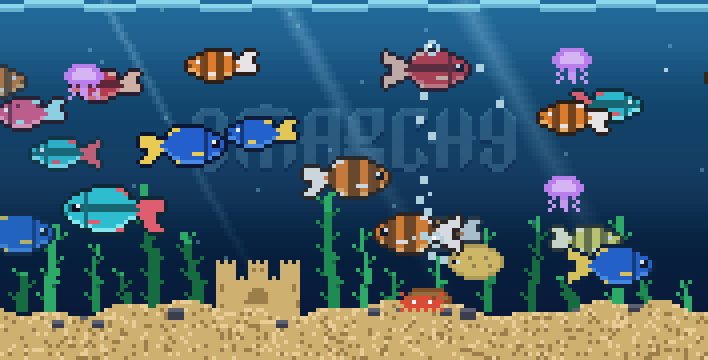
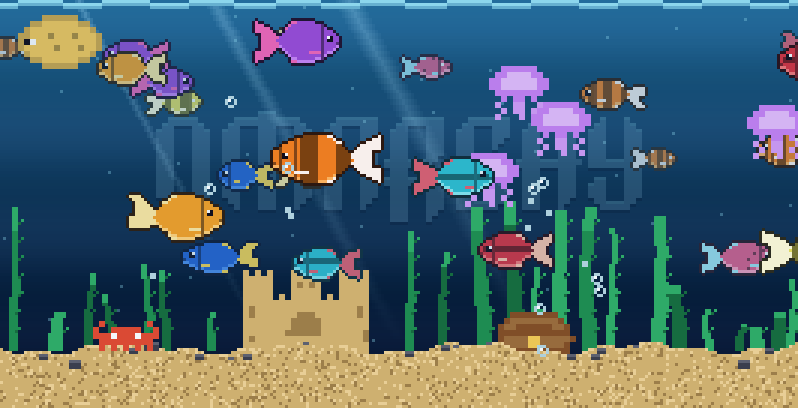
Give the screensaver a finer grid, and vary the fish by depth
Two things made the screensaver look unlike the tank in a terminal.

The grid: Omarchy opens the screensaver terminal at font size 18, which on
a scaled laptop panel is about 96x60 pixels -- a quarter of an everyday
terminal -- so the tank came out coarse, with six large fish. The install
now shadows omarchy-launch-screensaver and opens it at size 12, which is
~160x90 there and ~266x136 on a 1440p monitor. The shadow carries no copy
of the launcher: it points OMARCHY_PATH at a mirror of Omarchy's tree,
symlinked entry by entry except the terminal's screensaver config, and
hands off to the real launcher, which reads OMARCHY_PATH for nothing else.
--font-size in ~/.config/fishtank.conf sets it; 18 restores the original.

The fish: size came from a narrow band around one value, so a tank held
nine near-identical fish. Size now comes from depth -- far ones small and
dim, near ones large -- with jitter in the aspect so two fish of a height
are not the same fish. The hand-drawn sprites double on a tall tank, so
the castle, crab and chest stay in scale with them.

diff --git a/README.md b/README.md
@@ -20,19 +20,39 @@ number -- a fractional resize smears those strokes into grey mush. A tall tank
 gets it at full size; a short one halves it so the lockup still fits above the
 sand.
 
-Sprites are sized from the tank, not in fixed pixels. The screensaver runs
-foot at font size 18, which on a scaled laptop panel is about a hundred
-columns -- half the grid of an everyday terminal -- so a fish measured in
-pixels swells to a third of the screen there. Everything scales instead: fish
-are a fraction of the canvas height, and the logo shrinks to fit a narrow
-tank. The composition comes out the same whether it is a 106x60 canvas or a
-240x120 one.
+Everything is sized from the tank rather than in fixed pixels: fish are a
+fraction of the canvas height, with the ones far back small and dim and the
+ones near the glass large, and the logo shrinks to fit a narrow tank. The
+hand-drawn sprites -- castle, crab, chest -- double once the tank is tall
+enough for it, so a castle stays the size of a castle next to the fish.
 
 Swimming in the tank: generated fish species (each with a forked tail
 that flaps, a dorsal fin, a gill line and a proper eye), a pufferfish, drifting
 jellyfish, a crab that patrols the sand, bubbles from fish mouths and sand
 vents, swaying seaweed, a sandcastle, a treasure chest, god rays from the
 surface, drifting plankton and a rippling waterline.
+
+## Terminal size
+
+Omarchy opens the screensaver terminal at font size 18. That suits text
+effects, but it leaves the tank about 96x60 pixels on a scaled laptop panel --
+a quarter of what an everyday terminal gives -- and the fish come out coarse
+and few. So the install also shadows `omarchy-launch-screensaver`, which opens
+it at size 12 instead: roughly 160x90 pixels on that same panel and 266x136 on
+a 1440p monitor.
+
+```bash
+printf -- '--font-size 10\n' > ~/.config/fishtank.conf   # finer still
+printf -- '--font-size 18\n' > ~/.config/fishtank.conf   # Omarchy's original grid
+```
+
+The shadow does not copy Omarchy's launcher -- its multi-monitor handling
+belongs upstream and should keep working through updates. It points
+`OMARCHY_PATH` at a mirror of Omarchy's tree, every entry symlinked back to
+the original except the terminal's screensaver config, which is ours, and then
+hands off to the real launcher. That is the only thing the launcher reads
+`OMARCHY_PATH` for. Ghostty and Kitty take their font size as a command-line
+flag the launcher sets itself, so those two keep size 18.
 
 ## Keys
 
@@ -92,8 +112,11 @@ want the screensaver to run with goes in `~/.config/fishtank.conf`, one flag
 per line:
 
 ```bash
-printf -- '--logo lockup\n' > ~/.config/fishtank.conf
+printf -- '--logo lockup\n--font-size 10\n' > ~/.config/fishtank.conf
 ```
+
+`--font-size` is read by the launcher rather than passed to the tank; every
+other line goes to `fishtank` as an argument.
 
 ## Install
 
@@ -103,7 +126,8 @@ cd omarchy-fishtank-screensaver
 ./install.sh
 ```
 
-That symlinks `bin/fishtank` and `bin/omarchy-screensaver` into `~/.local/bin`,
+That symlinks `bin/fishtank`, `bin/omarchy-screensaver` and
+`bin/omarchy-launch-screensaver` into `~/.local/bin`,
 which sits ahead of `/usr/share/omarchy/bin` on `PATH`. Omarchy's own
 `omarchy-launch-screensaver` keeps doing the work — one terminal per monitor,
 right font, right window class — it just finds this `omarchy-screensaver`
@@ -174,8 +198,9 @@ fishtank [--theme [NAME] | --no-theme]
 | `--exit-on-key` | Quit on any keypress — screensaver mode. |
 | `--exit-on-unfocus` | Quit when the given Hyprland window class loses focus. |
 
-A full-screen tank costs a couple of milliseconds per frame, so at 24 fps it
-idles at a few percent of one core.
+A full-screen tank costs 2.5 ms per frame at 160x90 and 5.6 ms at 266x136, so
+at 24 fps one screen idles at 6-13% of a core. `--font-size` is the dial:
+a finer grid looks better and costs more.
 
 ## Development
 
